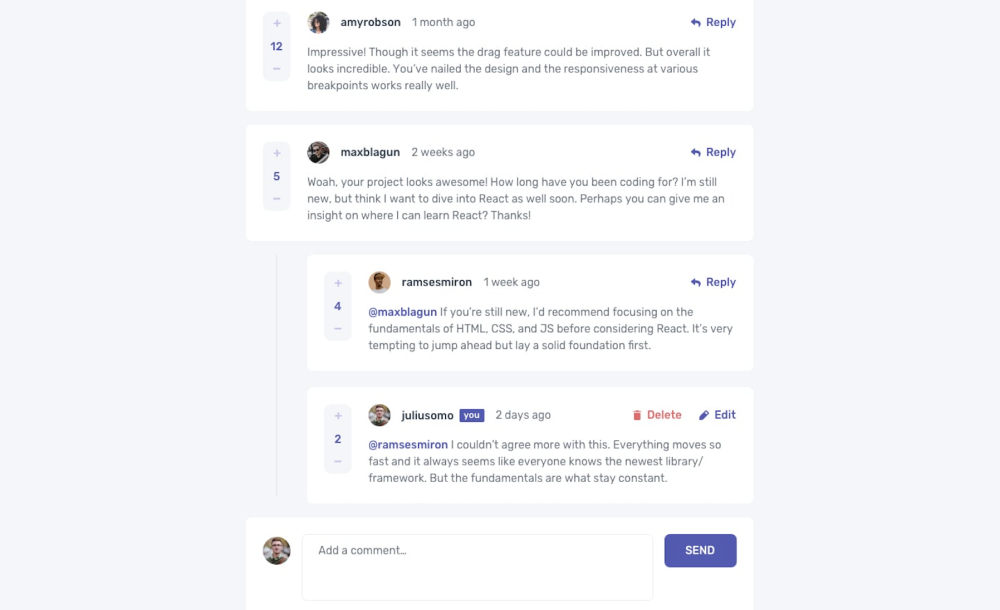
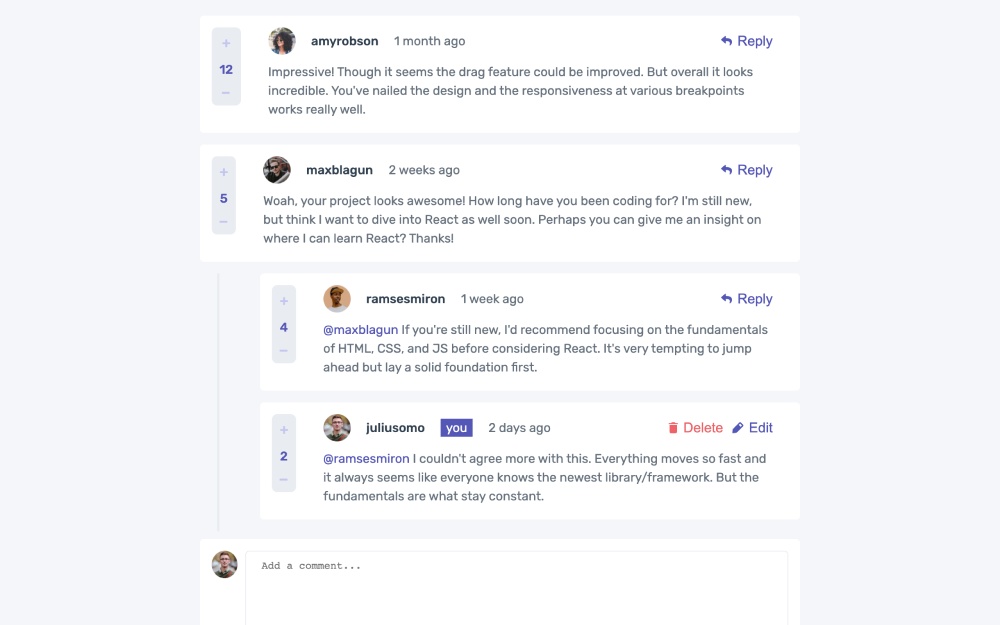
Resized interactive comment img & editted about text

diff --git a/src/Components/About/About.js b/src/Components/About/About.js
@@ -49,8 +49,8 @@ function About() {
               <b className="important-text">Frontend Developer!!!!!!</b>
             </Text>
             <Text>
-              If you couldn't tell from the AMAZING animations so far, I strong
-              passion for developing websites with great user{" "}
+              If you couldn't tell from the AMAZING animations so far, I have
+              strong passion for developing websites with great user{" "}
               <b className="important-text">experiences.</b> As a mainly
               self-taught developer, I spent most of my free time learning and
               honing my skills to progress to the next level.

diff --git a/src/Components/Projects/Projects.js b/src/Components/Projects/Projects.js
@@ -24,8 +24,8 @@ const Projects = () => {
           <Project
             title="Designo"
             img={require("../../images/designo.png")}
-            liveSite="https://github.com/AyeTone/Designo"
-            sourceCode="https://github.com/AyeTone/github-repo"
+            liveSite="https://ayetone.github.io/Designo/"
+            sourceCode="https://github.com/AyeTone/Designo"
             desc={
               <>
                 You wanted 7 pages of fun, I brought you 7 pages of a website. I
